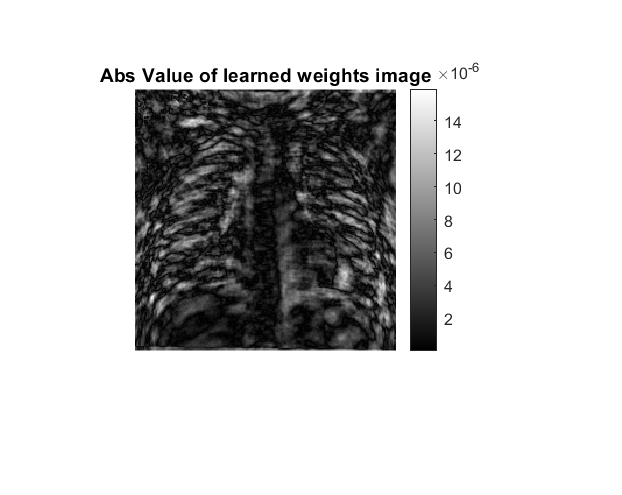
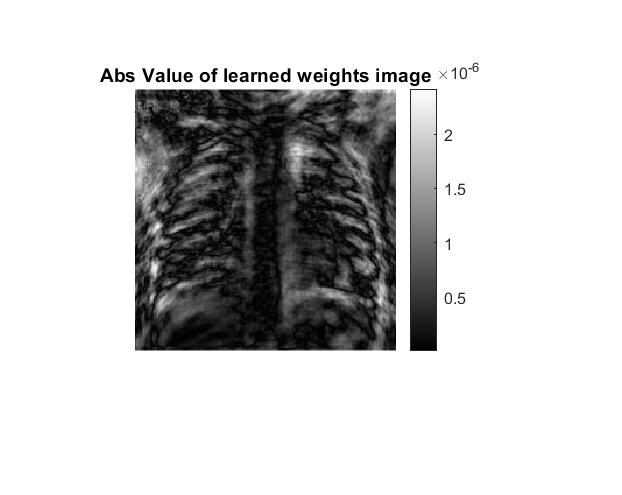
added learner in fitclinear

diff --git a/Exam project/modelPredict.m b/Exam project/modelPredict.m
@@ -1,42 +1,23 @@
 function [label, score, hasPnemoniaTrain] = modelPredict(TrainFolder, Mdl)
 
-if ~isfolder(TrainFolder)
-    errorMessage = sprintf('Error: The following folder does not exist:\n%s\nPlease specify a new folder.', TrainFolder);
-    uiwait(warndlg(errorMessage));
-    TrainFolder = uigetdir(); % Ask for a new one.
-    if TrainFolder == 0
-        % User clicked Cancel
-        return;
-    end
-end
+filePatternTest = fullfile(TrainFolder, '*.png');
+theFiles = dir(filePatternTest);
 
-% Get all PNG files from the folder
-extracted_Trained = fullfile(TrainFolder, '*.png');
-theFiles = dir(extracted_Trained);
-
-% Check if there are any PNG files
-if isempty(theFiles)
-    error('No PNG files found in the selected folder.');
-end
-
-% Initialize a cell array to hold the images
 image_Array = cell(1, numel(theFiles));
 image_cells_filtered = cell(1,numel(theFiles));
 hasPnemoniaTrain = zeros(1,numel(theFiles))';
 
-kernel = fspecial("gaussian",4,.5);
-
 % Read each image
 for k = 1:numel(theFiles)
+    
     baseFileName = theFiles(k).name;
     fullFileName = fullfile(theFiles(k).folder, baseFileName);
     image_Array{k} = imread(fullFileName);
-    %image_cells_filtered{k} = imfilter(image_Array{k},kernel);
-    
+
     [M, theta] = imgradient(image_Array{k});
 
     image_cells_filtered{k} = M;
-%     
+    
 %     figure('Name', 'mat2gray')
 %     imshow(mat2gray(M))
    
@@ -46,12 +27,16 @@ for k = 1:numel(theFiles)
     else
         hasPnemoniaTrain(k) = 0;
     end
+
 end
 ALL_ARRAY = zeros(length(image_cells_filtered{1})^2,length(image_cells_filtered));
 % creates cells with 1-column vectors
+
 for k = 1:numel(image_cells_filtered) 
+
     image_cells_filtered{k} = reshape(image_cells_filtered{k},[],1);
-    ALL_ARRAY(:,k) = image_cells_filtered{k} ;
+    ALL_ARRAY(:,k) = image_cells_filtered{k};
+
 end
 
 [label, score] = predict(Mdl, ALL_ARRAY');

diff --git a/Exam project/modelPredictPart1.m b/Exam project/modelPredictPart1.m
@@ -1,10 +1,10 @@
-function [Mdl, fitinfo] = fitPart1(TrainFolder)
+function [label, score, hasPnemoniaTest] = modelPredictPart1(TestFolder, Mdl)
 
-filePatternTest = fullfile(TrainFolder, '*.png');
+filePatternTest = fullfile(TestFolder, '*.png');
 theFiles = dir(filePatternTest);
 
 image_Array = cell(1, numel(theFiles));
-hasPnemoniaTrain = zeros(1,numel(theFiles))';
+hasPnemoniaTest = zeros(1,numel(theFiles))';
 
 % Read each image
 for k = 1:numel(theFiles)
@@ -15,9 +15,9 @@ for k = 1:numel(theFiles)
 
     if (contains(baseFileName,"positive"))
         % fprintf(1, 'Now reading %s\n', fullFileName);
-        hasPnemoniaTrain(k) = 1;
+        hasPnemoniaTest(k) = 1;
     else
-        hasPnemoniaTrain(k) = 0;
+        hasPnemoniaTest(k) = 0;
     end
 
 end
@@ -32,10 +32,6 @@ for k = 1:numel(image_Array)
 
 end
 
-[Mdl,fitinfo] = fitclinear(ALL_ARRAY', hasPnemoniaTrain , ...
-    "ObservationsIn","rows", ...
-    "Regularization",'ridge', ...
-    "Learner","logistic",...
-    'Lambda','auto');
+[label, score] = predict(Mdl, ALL_ARRAY');
 
 end

diff --git a/Exam project/fit.m b/Exam project/fit.m
@@ -40,6 +40,10 @@ for k = 1:numel(image_cells_filtered)
 
 end
 
-[Mdl,fitinfo] = fitclinear(ALL_ARRAY', hasPnemoniaTrain , "ObservationsIn","rows","Regularization",'ridge', 'Lambda','auto');
+[Mdl,fitinfo] = fitclinear(ALL_ARRAY', hasPnemoniaTrain , ...
+    "ObservationsIn","rows", ...
+    "Regularization",'ridge', ...
+    "Learner","svm",...
+    'Lambda','auto');
 
 end

diff --git a/Exam project/part1.m b/Exam project/part1.m
@@ -38,6 +38,4 @@ colorbar;
 title(titleOfBeta);
 saveas(gca,titleOfBeta,'png')
 
-
-
 clear filePatternTest filePatternTrain fullFileNameTest fullFileNameTrain baseFileNameTest baseFileNameTrain TestFolder TrainFolder
